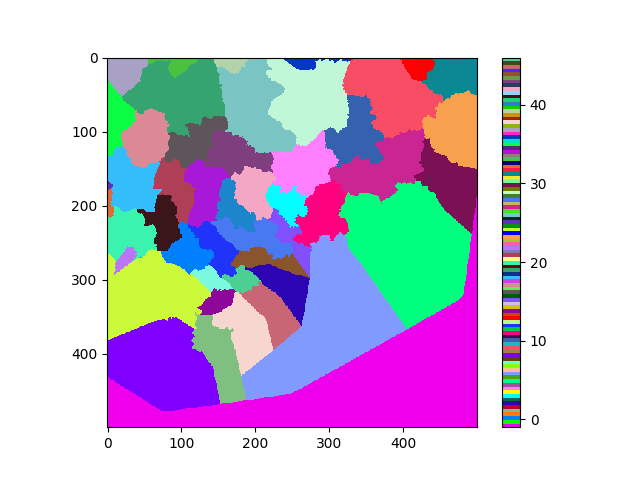
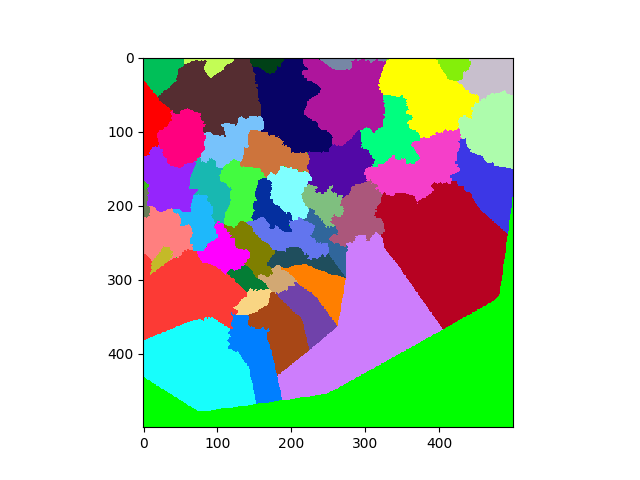
update

diff --git a/_find_province.py b/_find_province.py
@@ -70,64 +70,62 @@ def map_str_to_num(data):
     return data
 
 def plot_map(save_name):
-    with open(f'coordinate/{save_name}.pkl', 'rb') as file:
+    with open(f'coordinate/provinces_{save_name}.pkl', 'rb') as file:
         data = pickle.load(file)
         data = data.astype(int)
         data = data[::-1]
-
-    colors = distinctipy.get_colors(100)
+    
+    colors = distinctipy.get_colors(50)
     cmap = ListedColormap(colors)
     
     plt.imshow(data, cmap=cmap, interpolation='nearest')
-    plt.colorbar()
-    plt.savefig(f"coordinate/{save_name}.png")
+    plt.savefig(f"coordinate/provinces_{save_name}.png")
 
 if __name__ == '__main__':
-    radar_range = 300000 # 120000 | 300000
-    
-    data = pyart.io.read_sigmet("sample_data/2022-09-23 13-23-39")
-
-    grid_data = pyart.map.grid_from_radars(data, 
-                                           grid_shape=(1, 500, 500),
-                                           grid_limits=((0, 1), (-radar_range, radar_range), 
-                                                                (-radar_range, radar_range)))
-
-    longitude_list = np.array(grid_data.point_longitude['data'][0]).flatten()
-    latitude_list = np.array(grid_data.point_latitude['data'][0]).flatten()
-    coordinate_list = np.array([[longitude_list[i], latitude_list[i]] for i in range(len(longitude_list))])
-    
-    num_processes = 16
-    try:
-        with mp.Pool(processes=num_processes) as pool:
-            start_time = time.time()
-            results = pool.map(check_inside_province, np.array_split(coordinate_list, num_processes))
-            results = np.array([ele for sublist in results for ele in sublist]).reshape(500, 500)
-            results = map_str_to_num(results)
-            end_time = time.time() - start_time
-    except Exception as e:
-        print(e)
-        logging.error(e, exc_info=True)
-    
-    print(f"Time: {end_time}")
+    radar_range = 120000 # 120000 | 300000
     
     if radar_range == 120000:
-        save_name = "provinces_120km"
+        save_name = "120km"
     elif radar_range == 300000:
-        save_name = "provinces_300km"
+        save_name = "300km"
     
-    with open(f"coordinate/{save_name}.pkl", "wb") as f:
-        pickle.dump(results, f)
-        
+    # data = pyart.io.read_sigmet("sample_data/2022-09-23 13-23-39")
+    # grid_data = pyart.map.grid_from_radars(data, 
+    #                                        grid_shape=(1, 500, 500),
+    #                                        grid_limits=((0, 1), (-radar_range, radar_range), 
+    #                                                             (-radar_range, radar_range)))
+
+    # longitude_list = np.array(grid_data.point_longitude['data'][0]).flatten()
+    # latitude_list = np.array(grid_data.point_latitude['data'][0]).flatten()
+    # coordinate_list = np.array([[longitude_list[i], latitude_list[i]] for i in range(len(longitude_list))])
+    
+    # num_processes = 16
+    # try:
+    #     with mp.Pool(processes=num_processes) as pool:
+    #         start_time = time.time()
+            
+    #         results = pool.map(check_inside_province, np.array_split(coordinate_list, num_processes))
+    #         results = np.array([ele for sublist in results for ele in sublist]).reshape(500, 500)
+    #         results = map_str_to_num(results)
+    #         with open(f"coordinate/provinces_{save_name}.pkl", "wb") as f:
+    #             pickle.dump(results, f)
+                
+    #         end_time = time.time() - start_time
+    #         print(f"Time: {end_time}")
+    # except Exception as e:
+    #     print(e)
+    #     logging.error(e, exc_info=True)
+            
     plot_map(save_name)
     
 # {'an_giang': 0, 'bac_lieu': 1, 'ben_tre': 2, 'binh_duong': 3, 'binh_phuoc': 4, 'binh_thuan': 5, 'brvt': 6, 
-# 'can_tho': 7, 'ca_mau': 8, 'dak_lak': 9, 'dak_nong': 10, 'dong_nai': 11, 'dong_thap': 12, 'gia_lai': 13, 
-# 'hau_giang': 14, 'ho_chi_minh': 15, 'kampong_cham': 16, 'kampong_chhnang': 17, 'kampong_speu': 18, 
-# 'kampong_thom': 19, 'kampot': 20, 'kandal': 21, 'kep': 22, 'khanh_hoa': 23, 'kien_giang': 24, 'koh_kong': 25, 
-# 'kratie': 26, 'lam_dong': 27, 'long_an': 28, 'mondulkiri': 29, 'ninh_thuan': 30, 'phu_yen': 31, 
-# 'preah_sihanouk': 32, 'preah_vihear': 33, 'prey_veng': 34, 'pursat': 35, 'ratanakiri': 36, 'siem_reap': 37, 
-# 'soc_trang': 38, 'stung_treng': 39, 'svay_rieng': 40, 'takeo': 41, 'tay_ninh': 42, 'tbong_khmum': 43, 
-# 'tien_giang': 44, 'tra_vinh': 45, 'vinh_long': 46, 'NotAvailable': -1}
+#  'can_tho': 7, 'ca_mau': 8, 'dak_lak': 9, 'dak_nong': 10, 'dong_nai': 11, 'dong_thap': 12, 'gia_lai': 13, 
+#  'hau_giang': 14, 'ho_chi_minh': 15, 'kampong_cham': 16, 'kampong_chhnang': 17, 'kampong_speu': 18, 
+#  'kampong_thom': 19, 'kampot': 20, 'kandal': 21, 'kep': 22, 'khanh_hoa': 23, 'kien_giang': 24, 'koh_kong': 25, 
+#  'kratie': 26, 'lam_dong': 27, 'long_an': 28, 'mondulkiri': 29, 'ninh_thuan': 30, 'phu_yen': 31, 
+#  'preah_sihanouk': 32, 'preah_vihear': 33, 'prey_veng': 34, 'pursat': 35, 'ratanakiri': 36, 'siem_reap': 37, 
+#  'soc_trang': 38, 'stung_treng': 39, 'svay_rieng': 40, 'takeo': 41, 'tay_ninh': 42, 'tbong_khmum': 43, 
+#  'tien_giang': 44, 'tra_vinh': 45, 'vinh_long': 46, 'NotAvailable': -1}
 
 
 

diff --git a/_gen_image.py b/_gen_image.py
@@ -94,14 +94,14 @@ if __name__ == '__main__':
         with mp.Pool(processes=num_processes) as pool:
             metadata_chunks = pd.read_csv("metadata.csv", chunksize=chunk_size)
             for chunk in metadata_chunks:
-                sub_metadata_chunks = np.array_split(chunk, num_processes)
-                
                 start_time = time.time()
+                
+                sub_metadata_chunks = np.array_split(chunk, num_processes)
                 results = pool.map(generate_image, sub_metadata_chunks)
                 update_metadata(pd.concat(results))
-                end_time = time.time() - start_time
-                
                 counter += 1
+                
+                end_time = time.time() - start_time
                 print(f"### Chunk: {counter} | Time: {end_time} ###")    
     except Exception as e:
         print(e)

diff --git a/_label_current.py b/_label_current.py
@@ -196,14 +196,14 @@ if __name__ == '__main__':
         with mp.Pool(processes=num_processes) as pool:
             metadata_chunks = pd.read_csv("metadata.csv", chunksize=chunk_size)
             for chunk in metadata_chunks:
-                sub_metadata_chunks = np.array_split(chunk, num_processes)
-                
                 start_time = time.time()
+                
+                sub_metadata_chunks = np.array_split(chunk, num_processes)
                 results = pool.map(label_image, sub_metadata_chunks)
                 update_metadata(pd.concat(results))
-                end_time = time.time() - start_time
-
                 counter += 1
+                
+                end_time = time.time() - start_time
                 print(f"### Chunk: {counter} | Time: {end_time} ###")
     except Exception as e:
         print(e)

diff --git a/_gen_meta.py b/_gen_meta.py
@@ -79,9 +79,11 @@ if __name__ == '__main__':
       # Use multiprocessing to iterate over the metadata 
       with mp.Pool(processes=num_processes) as pool:
         start_time = time.time()
+        
         pool.map(create_metadata, years)
-        end_time = time.time() - start_time
         update_metadata()
+        
+        end_time = time.time() - start_time
         print(f"Time: {end_time}")
   except Exception as e:
       print(e)

diff --git a/_label_future.py b/_label_future.py
@@ -83,9 +83,10 @@ if __name__ == '__main__':
         # Use multiprocessing to iterate over the metadata
         with mp.Pool(processes=num_processes) as pool:
             start_time = time.time()
+            
             pool.map(find_future_images, intervals)
+            
             end_time = time.time() - start_time
-
             print(f"Time: {end_time}")
     except Exception as e:
         print(e)
